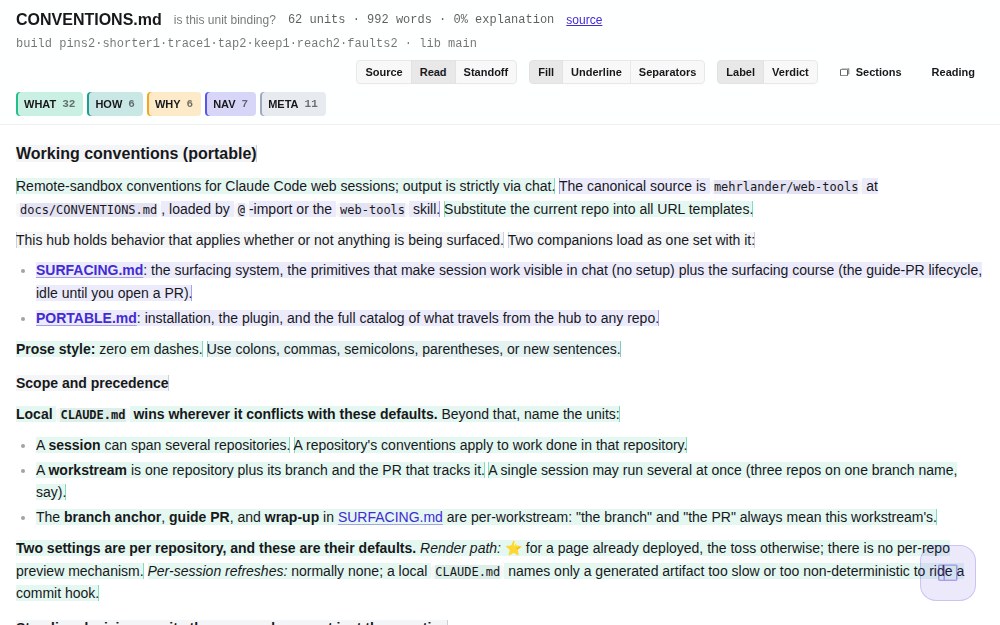
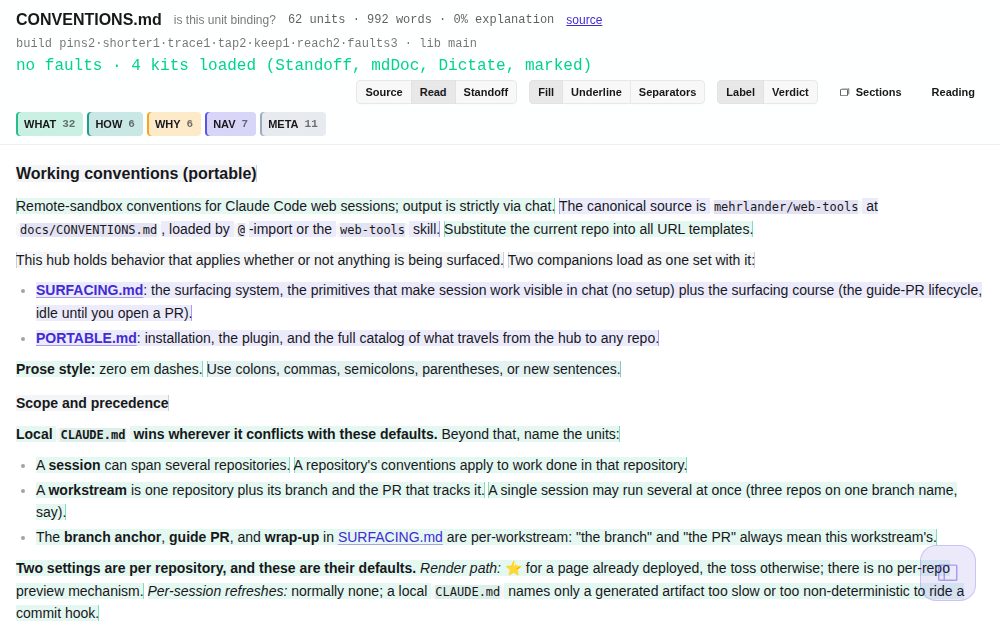
The health line says so either way, clean or not
Silence cannot tell 'checked and clean' from 'the check never ran', so a reader
looking at nothing learned nothing. One line now, always present.

It opens as 'checking…' in grey, which means a page that half-boots is left
saying that forever: the absence of a verdict is itself the report. It turns
green once the component has mounted and painted, naming the kits that arrived
rather than merely asserting health, and red the moment anything faults. The
separate missing-kit readout folds into it, since they answered one question in
two places.

Verified both states: 'no faults · 4 kits loaded (Standoff, mdDoc, Dictate,
marked)' in success green, and 'error: a kit said no' in error red.

Claude-Session: https://claude.ai/code/session_01KzihRRDhvDjbgPHfbtrniE

diff --git a/pages/audit-render.html b/pages/audit-render.html
@@ -820,16 +820,40 @@ window.__audit = {
     const seen = window.__auditFaults.find(f => f.line === line);
     if (seen) seen.n++;
     else window.__auditFaults.push({ line, n: 1 });
-    // THE FIRST FOUR, not the last: the earliest fault is usually the cause and
-    // the ones after it the consequences, so a readout that scrolls keeps the
-    // wrong end. What overflows is counted rather than dropped silently.
+    paintFaults();
+  };
+
+  // IT SAYS SO EITHER WAY, because silence cannot tell "checked and clean" from
+  // "the check never ran". It opens as `checking…`, so a page that half-boots
+  // is left saying that forever, which is itself the report; it turns green
+  // naming the kits that arrived once the component has mounted and painted,
+  // and red the moment anything faults.
+  //
+  // THE FIRST FOUR, not the last: the earliest fault is usually the cause and
+  // the ones after it the consequences, so a readout that scrolls keeps the
+  // wrong end. What overflows is counted rather than dropped silently.
+  window.__auditReady = false;
+  const paintFaults = () => {
     const box = document.getElementById('audit-faults');
     if (!box) return;
     const all = window.__auditFaults;
-    const shown = all.slice(0, 4).map(f => f.line + (f.n > 1 ? ` ×${f.n}` : ''));
-    if (all.length > 4) shown.push(`+${all.length - 4} more`);
-    box.textContent = shown.join('\n');
+    if (all.length) {
+      const shown = all.slice(0, 4).map(f => f.line + (f.n > 1 ? ` ×${f.n}` : ''));
+      if (all.length > 4) shown.push(`+${all.length - 4} more`);
+      box.className = box.className.replace(/text-\S+/g, '') + ' text-error';
+      box.textContent = shown.join('\n');
+      return;
+    }
+    const kits = ['Standoff', 'mdDoc', 'Dictate', 'marked'];
+    const gone = kits.filter(k => !window[k]);
+    box.className = box.className.replace(/text-\S+/g, '')
+                  + (window.__auditReady && !gone.length ? ' text-success' : ' text-base-content/50');
+    box.textContent = !window.__auditReady ? 'checking…'
+      : gone.length ? `not loaded: ${gone.join(', ')}`
+      : `no faults · ${kits.length} kits loaded (${kits.join(', ')})`;
   };
+  window.__auditSettled = () => { window.__auditReady = true; paintFaults(); };
+  addEventListener('DOMContentLoaded', paintFaults);
   // Capture phase, because a resource that fails to load fires its error on
   // the element and never reaches window in the bubble phase. Those events
   // carry no message, so the target's own address is the report.
@@ -881,7 +905,7 @@ window.__audit = {
       this.a.standoff = Standoff.adopt(this.a.standoff, this.a.text);
       this.sections = mdDoc.split(this.a.text);
       this.base = JSON.parse(JSON.stringify(this.a.standoff));
-      this.$nextTick(() => { this.bindDoc(); this.paint(); });
+      this.$nextTick(() => { this.bindDoc(); this.paint(); window.__auditSettled?.(); });
       // Clicking off every unit clears the selection. Until now the only way
       // out was the panel's own close button, which is the one control a
       // reader is not looking at once they have decided they are done. Capture
@@ -1048,7 +1072,7 @@ window.__audit = {
         'tap2',                                           // a click must carry its own tap
         this.push.length > 1 && 'keep1',                  // an edit keeps the reader's subject selected
         typeof this.absorbTo === 'function' && 'reach2',  // a boundary reaches past its pair, both ways
-        Array.isArray(window.__auditFaults) && 'faults2', // console, resources, rejections and throws
+        Array.isArray(window.__auditFaults) && 'faults3', // says so either way, clean or not
       ].filter(Boolean);
       return `build ${has.join('·') || 'base'} · lib ${(this.ref || 'main').slice(0, 7)}`;
     },
@@ -2034,9 +2058,9 @@ window.__audit = {
         <a class="text-xs link link-primary" :href="so.target.url" x-show="so.target.url">source</a>
         <span class="text-xs font-mono opacity-60" x-text="build"
               title="what this page file carries, and the ref its lib came from"></span>
-        <div id="audit-faults" class="text-xs font-mono text-error w-full whitespace-pre-line
-                    leading-tight" @click="window.__auditFaults.length = 0; $el.textContent = ''"></div>
-        <span class="text-xs font-mono text-error w-full" x-text="missing" x-show="missing"></span>
+        <div id="audit-faults" class="text-xs font-mono w-full whitespace-pre-line leading-tight
+                    text-base-content/50"
+             @click="window.__auditFaults.length = 0; window.__auditSettled()">checking…</div>
 
         <div class="join ml-auto">
           <button class="join-item btn btn-xs" :class="view==='source' && 'btn-active'"
